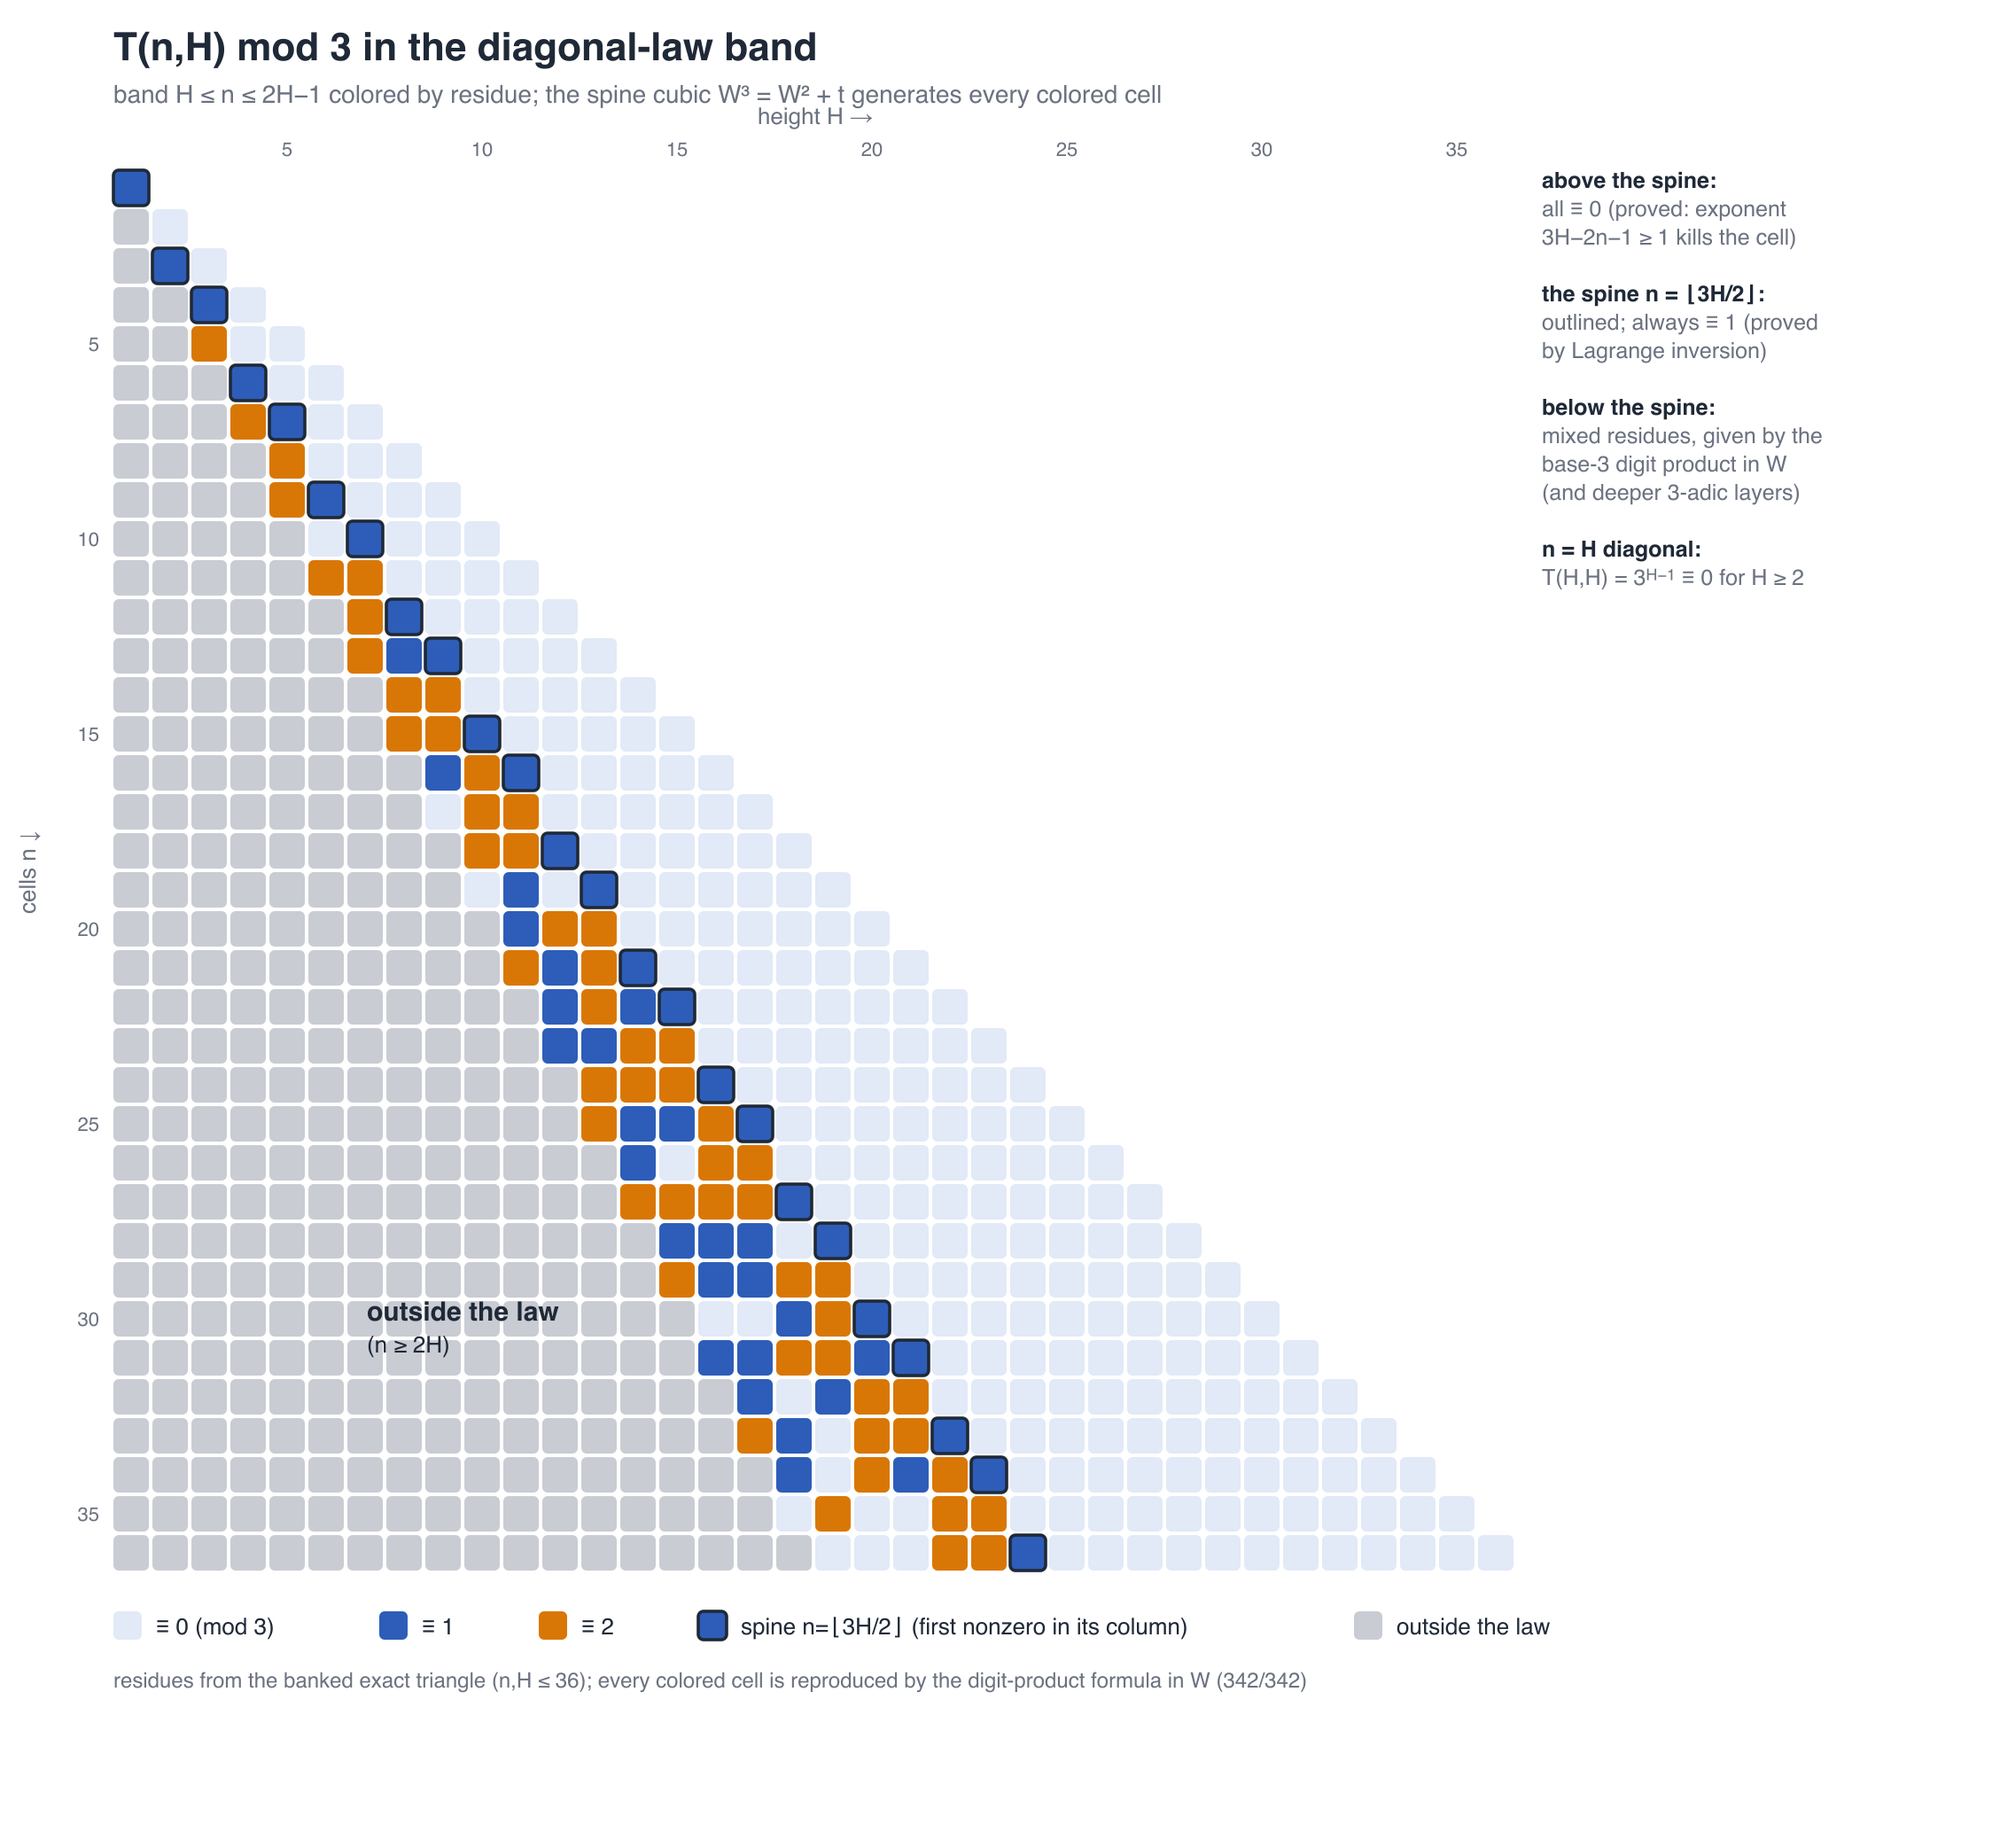
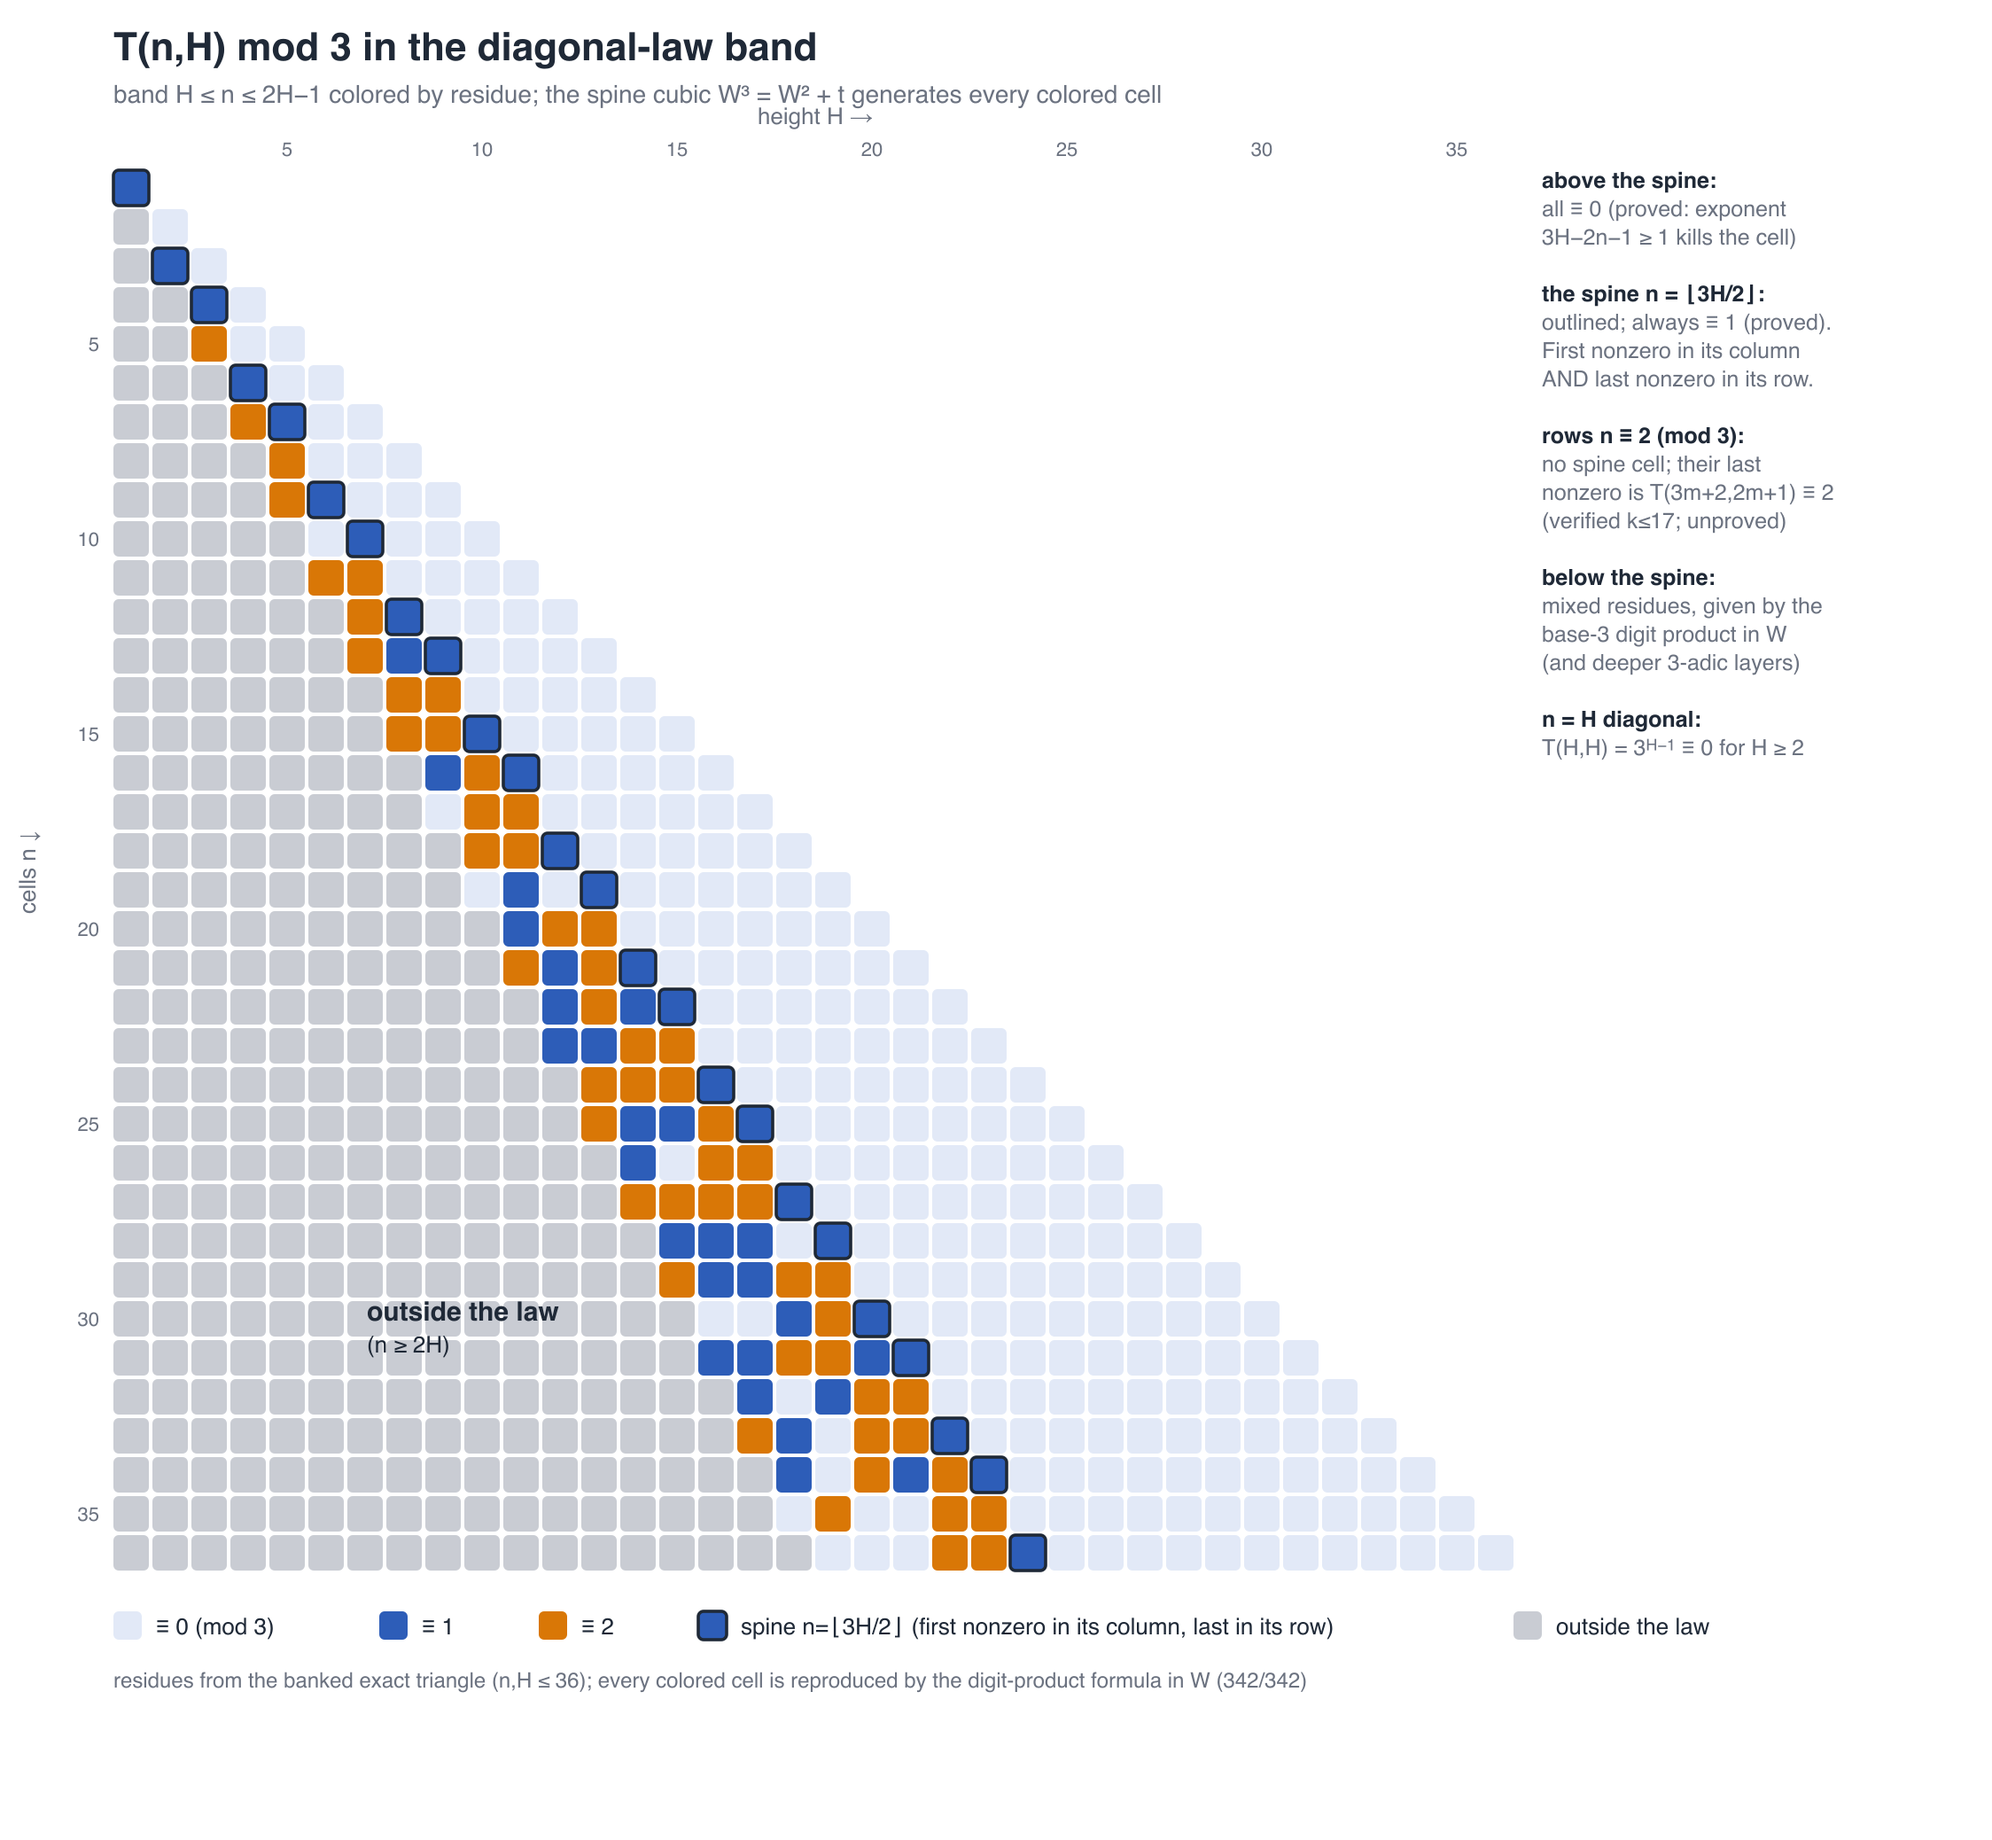
research(ternary-spine): row-reading laws (jasonp) -- last-nonzero cycle 1,1,2
The spine is also the LAST nonzero of its row (transpose of the proved zero
region). New law from the row view: rows n==2 mod 3 (no spine cell) end at the
deficit-2 cell T(3m+2,2m+1) == 2 mod 3 -- verified k<=17 (rows 38..50 are
predictions), unproved (needs the deficit-2 layer). Sleeve zeros identified as
valuation spikes v3(P_k(n)) > 3k+1-n; census: first two zeros row 19, first
adjacent pair row 30, first three row 35 (three-in-a-row row 36). Figure labels
updated to say first-in-column AND last-in-row.

Claude-Session: https://claude.ai/code/session_013Q9JPxofy6JBHCBToaJnsA

Changed region(s): [[0.7785, 0.185, 0.903, 0.4008], [0.6539, 0.8632, 0.8407, 0.894], [0.5916, 0.8632, 0.6228, 0.894]]

diff --git a/experiments/spine_triangle_res3_fig.py b/experiments/spine_triangle_res3_fig.py
@@ -62,14 +62,19 @@ s += [note(MT + 10, INK, 'above the spine:', True),
       note(MT + 26, MUT, 'all &#8801; 0 (proved: exponent'),
       note(MT + 42, MUT, '3H&#8722;2n&#8722;1 &#8805; 1 kills the cell)'),
       note(MT + 74, INK, 'the spine n = &#8970;3H/2&#8971;:', True),
-      note(MT + 90, MUT, 'outlined; always &#8801; 1 (proved'),
-      note(MT + 106, MUT, 'by Lagrange inversion)'),
-      note(MT + 138, INK, 'below the spine:', True),
-      note(MT + 154, MUT, 'mixed residues, given by the'),
-      note(MT + 170, MUT, 'base-3 digit product in W'),
-      note(MT + 186, MUT, '(and deeper 3-adic layers)'),
-      note(MT + 218, INK, 'n = H diagonal:', True),
-      note(MT + 234, MUT, 'T(H,H) = 3<tspan font-size="9" baseline-shift="30%">H&#8722;1</tspan> &#8801; 0 for H &#8805; 2')]
+      note(MT + 90, MUT, 'outlined; always &#8801; 1 (proved).'),
+      note(MT + 106, MUT, 'First nonzero in its column'),
+      note(MT + 122, MUT, 'AND last nonzero in its row.'),
+      note(MT + 154, INK, 'rows n &#8801; 2 (mod 3):', True),
+      note(MT + 170, MUT, 'no spine cell; their last'),
+      note(MT + 186, MUT, 'nonzero is T(3m+2,2m+1) &#8801; 2'),
+      note(MT + 202, MUT, '(verified k&#8804;17; unproved)'),
+      note(MT + 234, INK, 'below the spine:', True),
+      note(MT + 250, MUT, 'mixed residues, given by the'),
+      note(MT + 266, MUT, 'base-3 digit product in W'),
+      note(MT + 282, MUT, '(and deeper 3-adic layers)'),
+      note(MT + 314, INK, 'n = H diagonal:', True),
+      note(MT + 330, MUT, 'T(H,H) = 3<tspan font-size="9" baseline-shift="30%">H&#8722;1</tspan> &#8801; 0 for H &#8805; 2')]
 
 ly = MT + N * STEP + 34
 def sw(x, color, op='1', stroke=''):
@@ -77,8 +82,8 @@ def sw(x, color, op='1', stroke=''):
 s.append(sw(ML, R0) + f'<text x="{ML+24}" y="{ly}" font-size="13" fill="{INK}">&#8801; 0 (mod 3)</text>')
 s.append(sw(ML + 150, R1) + f'<text x="{ML+174}" y="{ly}" font-size="13" fill="{INK}">&#8801; 1</text>')
 s.append(sw(ML + 240, R2) + f'<text x="{ML+264}" y="{ly}" font-size="13" fill="{INK}">&#8801; 2</text>')
-s.append(sw(ML + 330, R1, stroke=f' stroke="{INK}" stroke-width="1.8"') + f'<text x="{ML+354}" y="{ly}" font-size="13" fill="{INK}">spine n=&#8970;3H/2&#8971; (first nonzero in its column)</text>')
-s.append(sw(ML + 700, OUT, '0.55') + f'<text x="{ML+724}" y="{ly}" font-size="13" fill="{INK}">outside the law</text>')
+s.append(sw(ML + 330, R1, stroke=f' stroke="{INK}" stroke-width="1.8"') + f'<text x="{ML+354}" y="{ly}" font-size="13" fill="{INK}">spine n=&#8970;3H/2&#8971; (first nonzero in its column, last in its row)</text>')
+s.append(sw(ML + 790, OUT, '0.55') + f'<text x="{ML+814}" y="{ly}" font-size="13" fill="{INK}">outside the law</text>')
 s.append(f'<text x="{ML}" y="{ly+30}" font-size="12" fill="{MUT}">residues from the banked exact triangle (n,H &#8804; 36); every colored cell is reproduced by the digit-product formula in W (342/342)</text>')
 s.append('</svg>')
 

diff --git a/results/ternary-spine.md b/results/ternary-spine.md
@@ -117,6 +117,29 @@ $= \#\{H \le N : \lfloor 3H/2\rfloor > N\} = \lceil (N{-}1)/3\rceil$
 - $T(39,26) \equiv 1 \pmod 3$ and $P_{13}(39) \equiv 3 \pmod 9$ (even spine).
 - Every future in-regime triangle cell mod 3 via T1's digit product.
 
+## Row reading (jasonp's observation) and the sleeve zeros
+
+Reading along rows instead of down columns:
+
+- **The spine is also the LAST nonzero of its row.** Right of the spine in row
+  $n$ means $n < \lfloor 3H/2\rfloor$ — the same proved zero region as "above
+  the spine in column $H$"; the two statements are transposes of one fact.
+- **Rows $n \equiv 2 \pmod 3$ have no spine cell.** Their last nonzero is the
+  deficit-2 cell, and empirically it is ALWAYS $\equiv 2$:
+  $$T(3m{+}2,\,2m{+}1) \equiv 2 \pmod 3\qquad(v_3(P_k(3k{-}1)) = 2,\ \text{unit }2,\ k=m{+}1).$$
+  Verified $k \le 17$ (banked rows $m \le 11$; rows 38, 41, 44, 47, 50 are
+  law-conditional predictions). So the last-nonzero residue of row $n$ cycles
+  $1,1,2$ with $n \bmod 3$. UNPROVED — needs the deficit-2 layer (one binomial
+  order past the even-spine proof; the mod-27/81 lifts are the ingredients).
+- **Sleeve zeros are valuation spikes.** A band cell left of the spine carries
+  forced deficit $d = 3k{+}1{-}n$; generically $v_3(P_k(n)) = d$ exactly (the
+  cell is a unit there) and a ZERO marks excess divisibility
+  $v_3(P_k(n)) > d$. Census (jasonp): first row with two zeros left of the
+  spine is $n=19$ ($v_3(P_7(19))=4>3$, $v_3(P_9(19))=10>9$); first adjacent
+  pair $n=30$; first three-in-total $n=35$; first three-in-a-row $n=36$. A
+  closed law for these spikes (the deficit-$d$ unit formulas, $d \ge 2$) is
+  the open remainder of the Witt tower.
+
 ## Honest accounting
 
 - **Unconditional:** Prop. 1–2, the lower half of T4, the 3-power SNF fact, the
